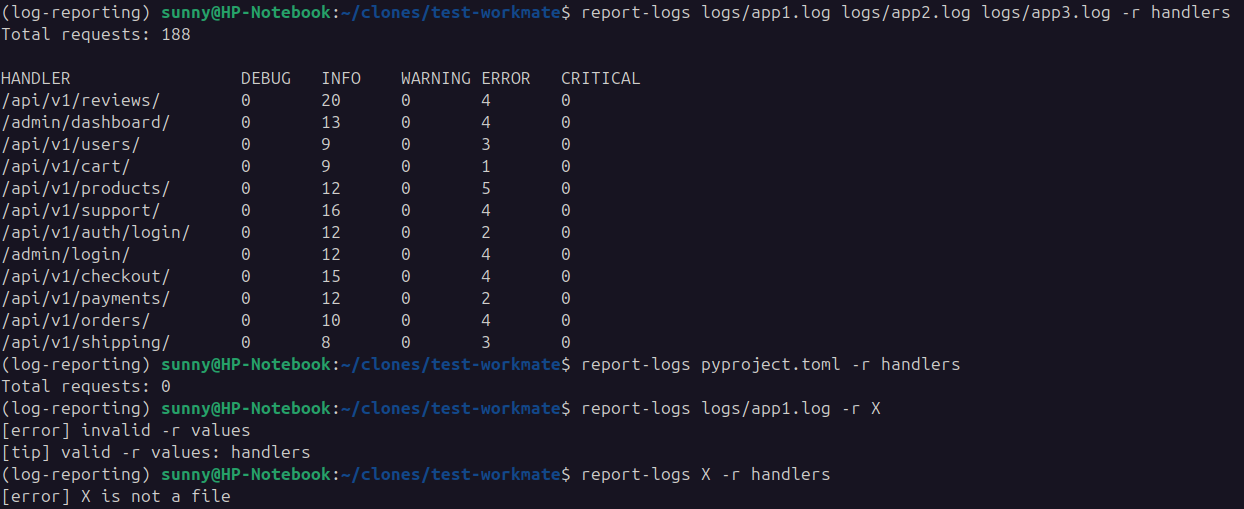
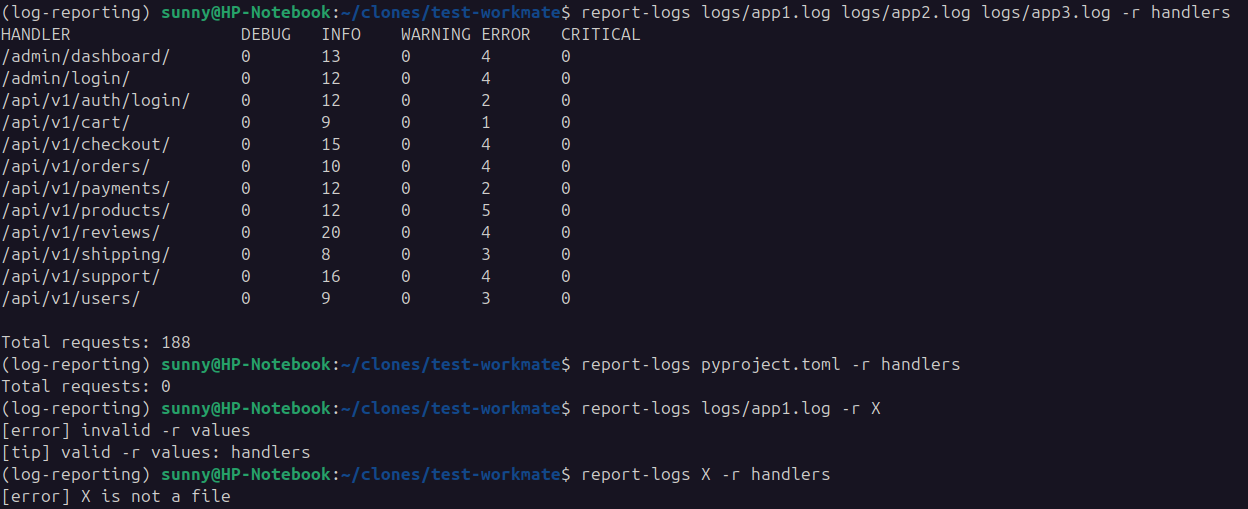
feat(`cli`): view report by requirements

diff --git a/tests/test_log_reporting/test_presentation/test_adapters/test_report_views/test_handler_report_tables_as_report_views.py b/tests/test_log_reporting/test_presentation/test_adapters/test_report_views/test_handler_report_tables_as_report_views.py
@@ -32,7 +32,6 @@ def handler_report_and_its_view(
             return (
                 app0_log_handler_report,
                 HandlerReportTable(
-                    "Total requests: 12\n\n"
                     "HANDLER                 DEBUG   INFO    WARNING ERROR   CRITICAL"  # noqa: E501
                     "\n/a                      0       2       0       0       0       "  # noqa: E501
                     "\n/b                      0       2       0       0       0       "  # noqa: E501
@@ -40,6 +39,7 @@ def handler_report_and_its_view(
                     "\n/d                      0       2       0       0       0       "  # noqa: E501
                     "\n/e                      0       2       0       0       0       "  # noqa: E501
                     "\n/f                      0       2       0       0       0       "  # noqa: E501
+                    "\n\nTotal requests: 12"
                 ),
             )
         case _:

diff --git a/src/log_reporting/presentation/cli/report_view.py b/src/log_reporting/presentation/cli/report_view.py
@@ -32,7 +32,8 @@ def handler_report_table(
     if not rows:
         return HandlerReportTable(total_request_view)
 
+    rows = sorted(rows, key=lambda row: row[0])
+
     return HandlerReportTable(
-        f"Total requests: {total_requests}"
-        + f"\n\n{table(handler_report_table_layout, rows)}"
+        f"{table(handler_report_table_layout, rows)}\n\n{total_request_view}"
     )
